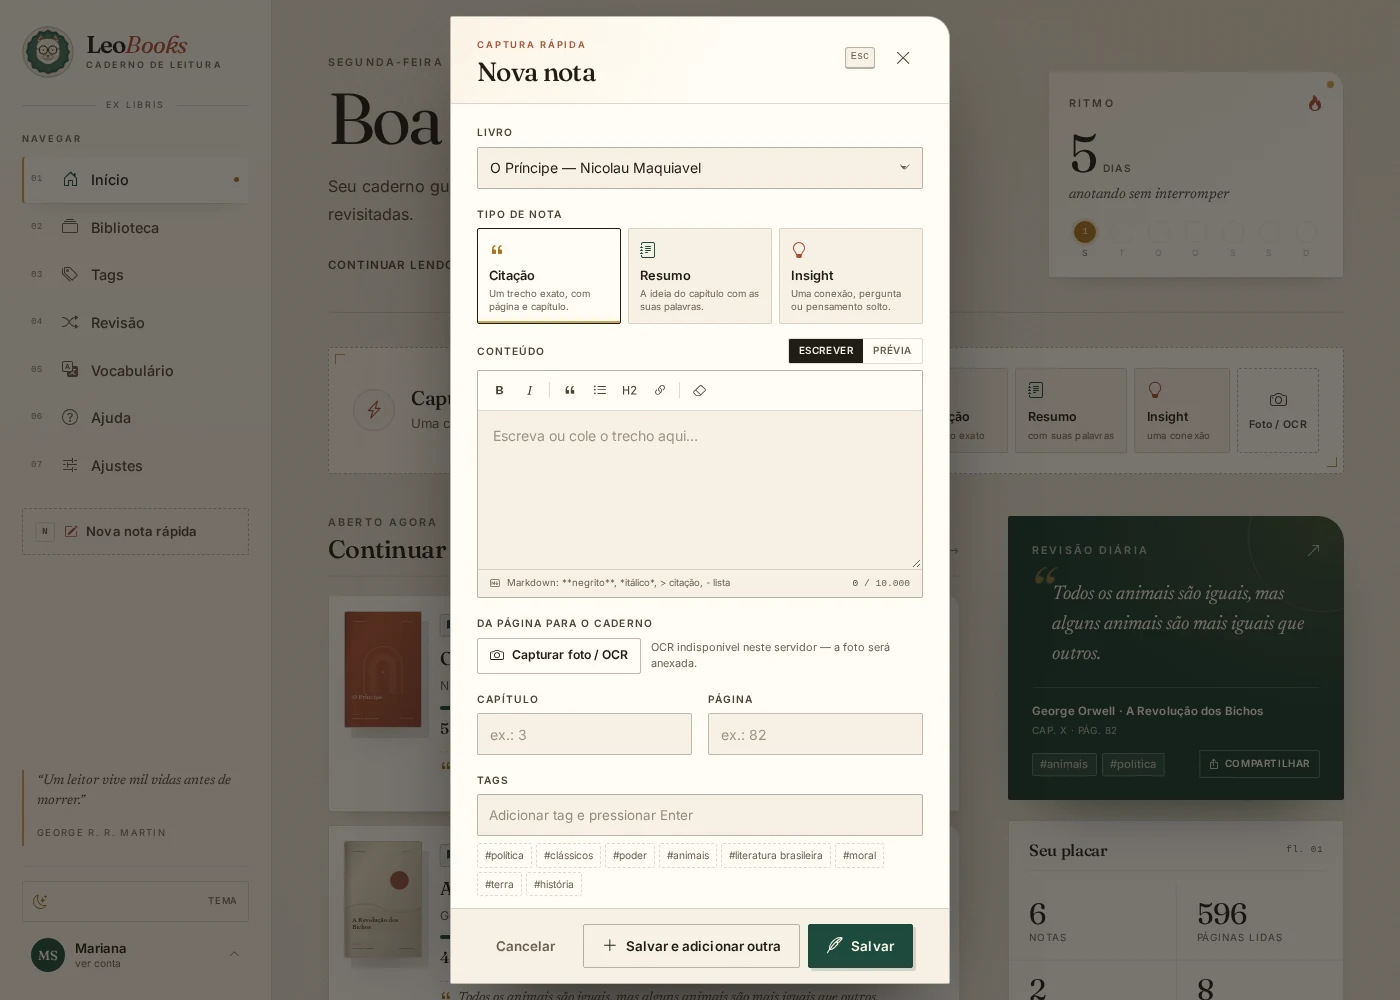
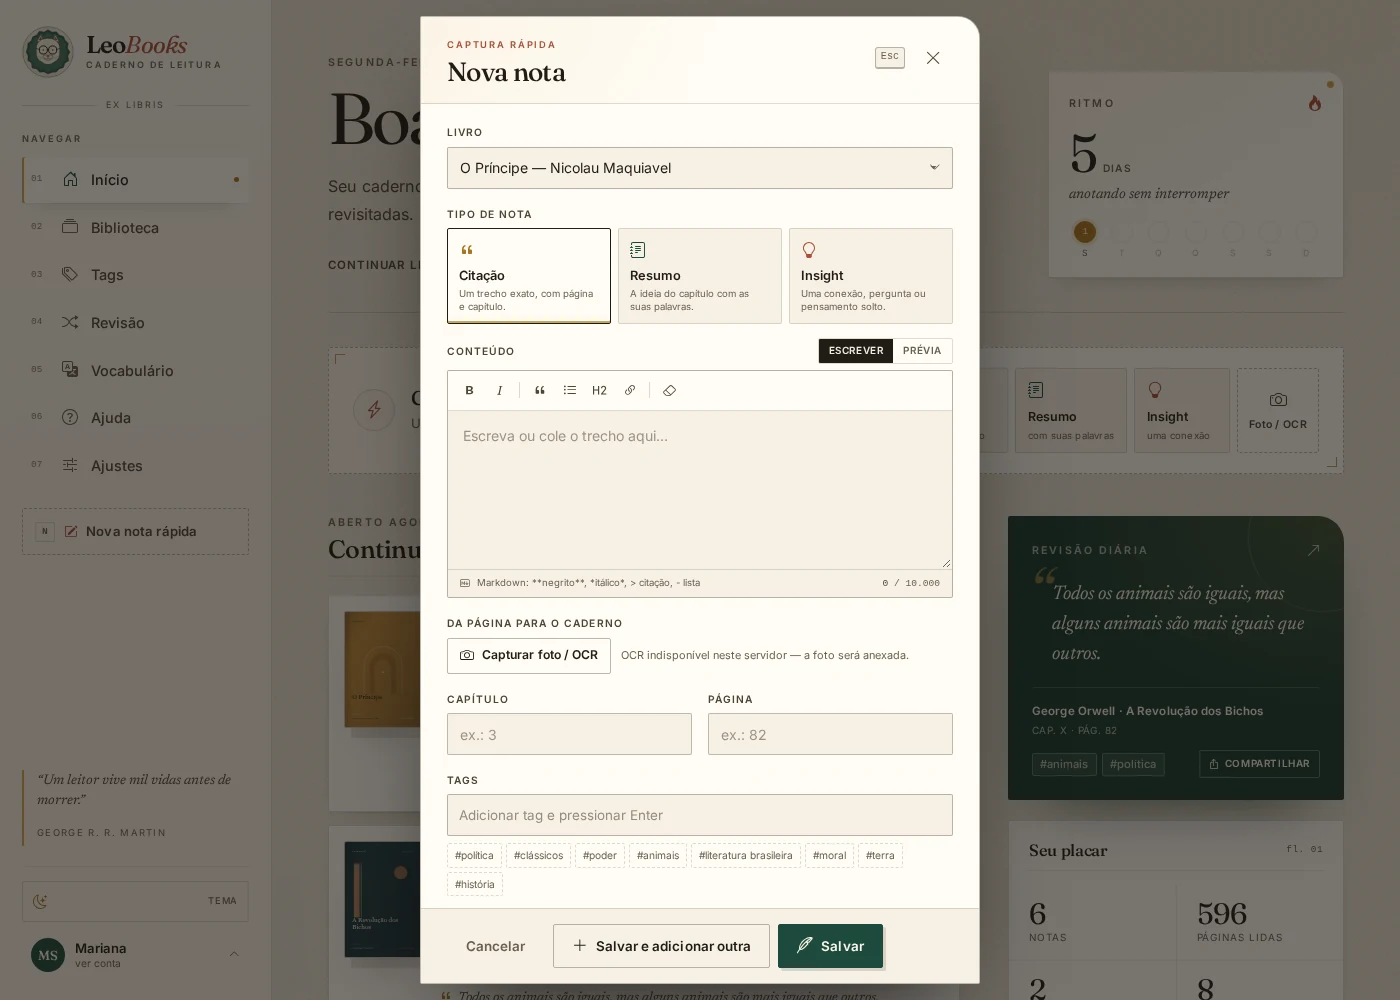
aumenta moderadamente a largura dos popups de escrita
Nova nota e Nova palavra passam de 500 px para 560 px, mantendo o rodapé e os campos acomodados.

diff --git a/static/css/style.css b/static/css/style.css
@@ -2829,6 +2829,10 @@ textarea.lb-input { min-height: 110px; resize: vertical; }
 }
 .lb-modal__foot-actions { display: flex; align-items: center; gap: 8px; }
 .lb-hint--kbd { display: inline-flex; align-items: center; gap: 5px; margin: 0; }
+
+/* Popups de escrita: um pouco mais largos para acomodar os formulários. */
+.lb-modal--note .modal-dialog,
+#vocabularyModal .modal-dialog { max-width: 560px; }
 /* O modal de nota mantém o mesmo tamanho do vocabulário; o atalho não cabe
    ao lado de três ações e é redundante com o botão Salvar. */
 .lb-modal--note .lb-modal__foot .lb-hint--kbd { display: none; }
